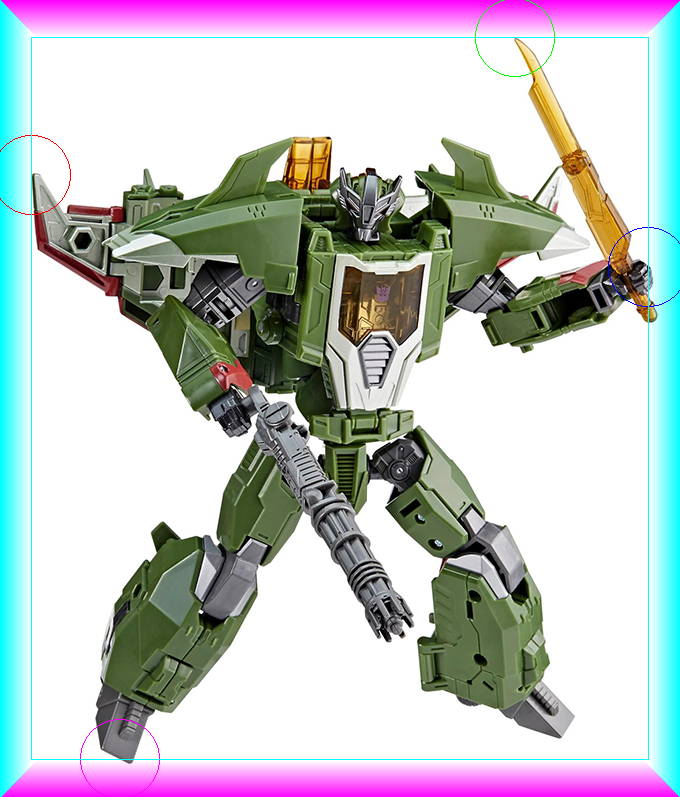
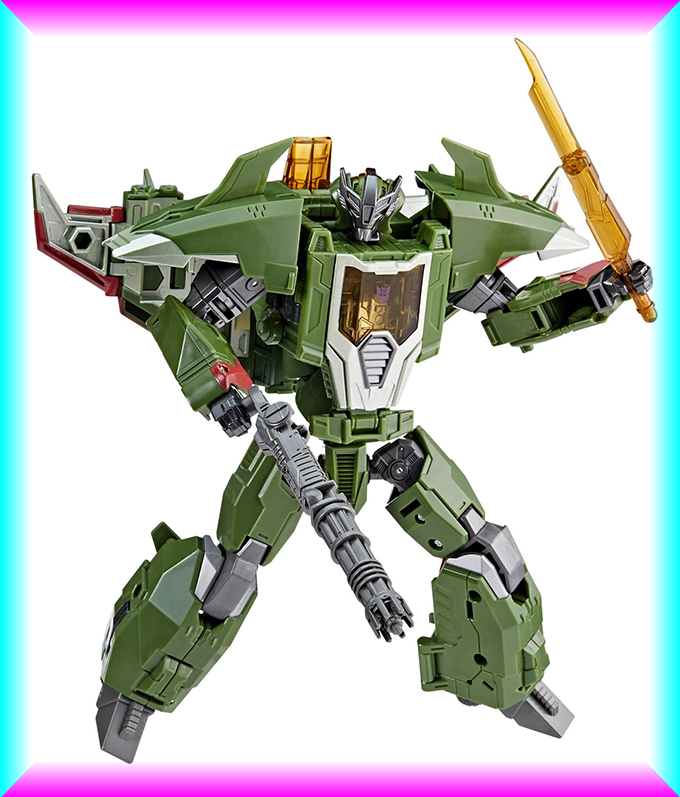
exit early for white pixels

diff --git a/main.py b/main.py
@@ -1,8 +1,12 @@
 import numpy as np
 import imageio.v3 as iio
 import math
+import logging
 from PIL import Image as img, ImageDraw
+from timer import timer, get_timer
 
+
+logging.basicConfig(level=logging.DEBUG)
 
 class Extents:
     _left = None
@@ -46,68 +50,71 @@ class Extents:
     def width(self):
         return self._right - self._left
 
+
 def imageLightnessAt(rgb):
-    (r,g,b) = rgb
+    (r, g, b) = rgb
     m = min(r, g, b)
     n = max(r, g, b)
     lightness = (int(m) + n) / 510.0
     return lightness
 
-def darkEnough( rgb, x, y, tolerance ):
-    # if rgb == 0xffffff:
-    #     return False
+
+def darkEnough(rgb, x, y, tolerance):
+    if rgb[0] == 255 and rgb[1] == 255 and rgb[2] == 255:
+        return False
 
     if imageLightnessAt(rgb) < tolerance:
-             return True
+        return True
 
     return False
 
+
 def find_top_edge(img, left, top, right, bottom, step, tolerance):
-        for y in range(top, bottom, step):
-            for x in range(left, right, step):
-                rgb = img.getpixel((x,y));
-                if darkEnough(rgb, x, y, tolerance ):
-                    if step > 1:
-                        try:
-                            return find_top_edge(img,
-                                max(0, x - step),
-                                max(0, y - step),
-                                x,
-                                y,
-                                1,
-                                tolerance)
-                        except Exception:
-                            return [x, y]
-                    return [x,y]
-
-        if step > 1:
-            return find_top_edge(
-                img,
-                left,
-                top,
-                right,
-                bottom,
-                1,
-                tolerance
-            )
-
-        raise Exception("Didn't find any non-white pixels")
-
-
-def find_left_edge(img, left, top, right, bottom, step, tolerance):
-    for x in range(left, right, step):
-        for y in range(top, bottom, step):
-            rgb = img.getpixel((x,y))
+    for y in range(top, bottom, step):
+        for x in range(left, right, step):
+            rgb = img.getpixel((x, y));
             if darkEnough(rgb, x, y, tolerance):
                 if step > 1:
                     try:
-                        return find_left_edge(img,
+                        return find_top_edge(img,
                                              max(0, x - step),
                                              max(0, y - step),
                                              x,
                                              y,
                                              1,
                                              tolerance)
+                    except Exception:
+                        return [x, y]
+                return [x, y]
+
+    if step > 1:
+        return find_top_edge(
+            img,
+            left,
+            top,
+            right,
+            bottom,
+            1,
+            tolerance
+        )
+
+    raise Exception("Didn't find any non-white pixels")
+
+
+def find_left_edge(img, left, top, right, bottom, step, tolerance):
+    for x in range(left, right, step):
+        for y in range(top, bottom, step):
+            rgb = img.getpixel((x, y))
+            if darkEnough(rgb, x, y, tolerance):
+                if step > 1:
+                    try:
+                        return find_left_edge(img,
+                                              max(0, x - step),
+                                              max(0, y - step),
+                                              x,
+                                              y,
+                                              1,
+                                              tolerance)
                     except Exception:
                         return [x, y]
                 return [x, y]
@@ -129,17 +136,17 @@ def find_left_edge(img, left, top, right, bottom, step, tolerance):
 def find_right_edge(img, left, top, right, bottom, step, tolerance):
     for x in range(right - 1, left, -step):
         for y in range(top, bottom, step):
-            rgb = img.getpixel((x,y))
+            rgb = img.getpixel((x, y))
             if darkEnough(rgb, x, y, tolerance):
                 if step > 1:
                     try:
                         return find_right_edge(img,
-                                                max(0, x + step),
-                                                max(0, y - step),
-                                                x,
-                                                y,
-                                                1,
-                                                tolerance)
+                                               max(0, x + step),
+                                               max(0, y - step),
+                                               x,
+                                               y,
+                                               1,
+                                               tolerance)
                     except Exception:
                         return [x, y]
                 return [x, y]
@@ -157,37 +164,39 @@ def find_right_edge(img, left, top, right, bottom, step, tolerance):
 
     raise Exception("Didn't find any non-white pixels")
 
+
 def find_bottom_edge(img, left, top, right, bottom, step, tolerance):
-        for y in range(bottom - 1, top, -step):
-            for x in range(left, right, step):
-                rgb = img.getpixel((x,y))
-                if darkEnough(rgb, x, y, tolerance ):
-                    if step > 1:
-                        try:
-                            return find_bottom_edge(img,
-                                max(0, x - step),
-                                max(0, y - step),
-                                x,
-                                y,
-                                1,
-                                tolerance)
-                        except Exception:
-                            return [x, y]
-                    return [x,y]
+    for y in range(bottom - 1, top, -step):
+        for x in range(left, right, step):
+            rgb = img.getpixel((x, y))
+            if darkEnough(rgb, x, y, tolerance):
+                if step > 1:
+                    try:
+                        return find_bottom_edge(img,
+                                                max(0, x - step),
+                                                max(0, y - step),
+                                                x,
+                                                y,
+                                                1,
+                                                tolerance)
+                    except Exception:
+                        return [x, y]
+                return [x, y]
 
-        if step > 1:
-            return find_bottom_edge(
-                img,
-                left,
-                top,
-                right,
-                bottom,
-                1,
-                tolerance
-            )
+    if step > 1:
+        return find_bottom_edge(
+            img,
+            left,
+            top,
+            right,
+            bottom,
+            1,
+            tolerance
+        )
 
-        raise Exception("Didn't find any non-white pixels")
+    raise Exception("Didn't find any non-white pixels")
 
+@timer(unit='s')
 def crop(filename, **options):
     step = options.get('step', 1)
     tolerance = options.get('tolerance', 0.95)
@@ -223,7 +232,7 @@ def crop(filename, **options):
             tolerance
         )
     except Exception:
-         bottomEllipse = None
+        bottomEllipse = None
     extents.add(bottomEllipse)
 
     # left edge
@@ -238,7 +247,7 @@ def crop(filename, **options):
             tolerance
         )
     except Exception:
-         leftEllipse = None
+        leftEllipse = None
     extents.add(leftEllipse)
 
     # right edge
@@ -253,7 +262,7 @@ def crop(filename, **options):
             tolerance
         )
     except Exception:
-         rightEllipse = None
+        rightEllipse = None
     extents.add(rightEllipse)
 
     coreWidth = extents.width() + 1
@@ -266,8 +275,8 @@ def crop(filename, **options):
 
     cropped = image.crop((extents.left(), extents.top(), width, height))
 
-    res = img.new("RGB", (finalWidth,finalHeight), "white")
-    res.paste(cropped, (gutterWidth,gutterHeight))
+    res = img.new("RGB", (finalWidth, finalHeight), "white")
+    res.paste(cropped, (gutterWidth, gutterHeight))
     draw = ImageDraw.Draw(res, 'RGBA')
 
     # adjust the values after the crop
@@ -318,14 +327,14 @@ def crop(filename, **options):
         radius = (finalHeight * 0.1) / 2
         # left ellipse
         if (leftEllipse is not None):
-           drawCircle(
-               draw,
-               gutterWidth,
-               leftEllipse[1] + gutterHeight,
-               radius,
-               "#ff0000",
-               1
-           )
+            drawCircle(
+                draw,
+                gutterWidth,
+                leftEllipse[1] + gutterHeight,
+                radius,
+                "#ff0000",
+                1
+            )
 
         # top ellipse
         drawCircle(
@@ -339,14 +348,14 @@ def crop(filename, **options):
 
         # right ellipse
         if (rightEllipse is not None):
-           drawCircle(
-               draw,
-               finalWidth - gutterWidth - 1,
-               rightEllipse[1] + gutterHeight,
-               radius,
-               "#0000ff",
-               1
-           )
+            drawCircle(
+                draw,
+                finalWidth - gutterWidth - 1,
+                rightEllipse[1] + gutterHeight,
+                radius,
+                "#0000ff",
+                1
+            )
 
         # bottom ellipse
         drawCircle(
@@ -357,7 +366,6 @@ def crop(filename, **options):
             '#ff00ff',
             1
         )
-
 
     if drawLines:
         lineColor = '#00ffff'
@@ -376,7 +384,7 @@ def crop(filename, **options):
                 finalHeight - gutterHeight - 1,
                 finalWidth - gutterWidth - 1,
                 finalHeight - gutterHeight - 1,
-           ), fill=lineColor, width=1)
+            ), fill=lineColor, width=1)
 
             # left line
             draw.line((
@@ -394,24 +402,24 @@ def crop(filename, **options):
                 finalHeight - gutterHeight - 1,
             ), fill=lineColor, width=1)
 
-
     return res
+
 
 def drawCircle(draw, centerX, centerY, radius, color, width):
     draw.ellipse((
-            centerX-radius,
-            centerY - radius,
-            centerX + radius,
-            centerY + radius
-        ),
+        centerX - radius,
+        centerY - radius,
+        centerX + radius,
+        centerY + radius
+    ),
         outline=color,
         width=width
     )
 
 
-croppedImg = crop('./samples/figure.jpg', tolerance=0.95, showGutters=True, drawEllipses=True, drawLines=True, step=10, fadeGutters=True)
+croppedImg = crop('./samples/figure.jpg', tolerance=0.95, drawEllipses=False, drawLines=False, step=10,
+                  fadeGutters=True)
 # plt.imshow(croppedImg)
 iio.imwrite("./samples/cropped.png", croppedImg)
-
 
 print("done")
